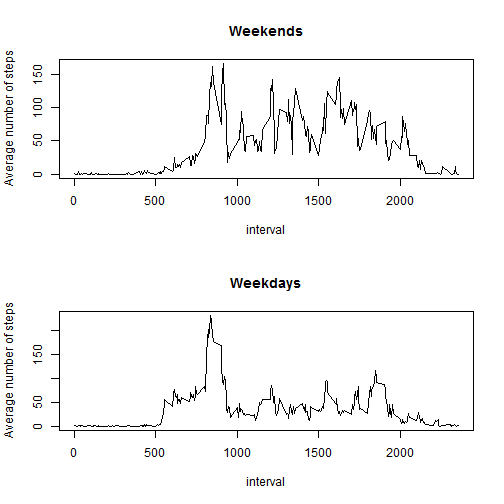
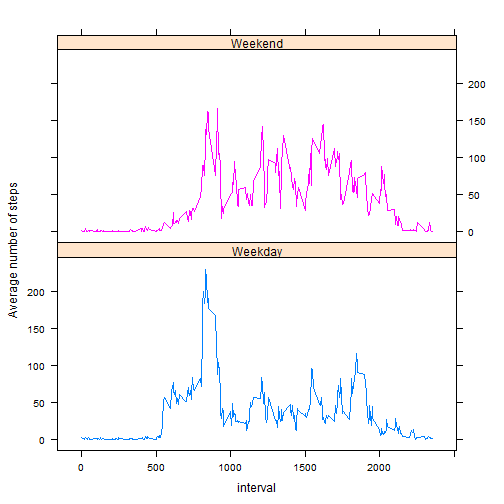
def version
using lattice for the last graph

diff --git a/PA1_template.html b/PA1_template.html
@@ -185,7 +185,11 @@ hljs.initHighlightingOnLoad();
 
 <p>In this part we will transform the date column which is processed as a factor into a date format.</p>
 
-<pre><code class="r">data &lt;- read.table(unz(&quot;activity.zip&quot;,&quot;activity.csv&quot;), sep=&quot;,&quot;, header=TRUE)
+<pre><code class="r">temp &lt;- tempfile() # Create a temp file to store the zip
+download.file(&quot;http://d396qusza40orc.cloudfront.net/repdata%2Fdata%2Factivity.zip&quot;,temp)
+data &lt;- read.table(unz(temp,&quot;activity.csv&quot;),sep=&quot;,&quot;,header=TRUE)
+unlink(temp)
+rm(temp)
 data$date &lt;- as.Date(data$date, format=&quot;%Y-%m-%d&quot;)
 </code></pre>
 
@@ -295,14 +299,16 @@ newData$Weekday &lt;- as.factor(newData$Weekday)
 
 <p>We subset two data frames from newData corresponding to weekends and weekdays aggregating the data by mean by interval and then we plot this two dataframes. </p>
 
-<pre><code class="r">weekends &lt;- aggregate(steps ~interval,subset(newData, newData$Weekday == &quot;Weekend&quot;), mean)
-weekdays &lt;- aggregate(steps ~interval,subset(newData, newData$Weekday == &quot;Weekday&quot;), mean)
-par(mfrow=c(2,1))
-plot (weekends, type=&quot;l&quot;, ylab=&quot;Average number of steps&quot;, main=&quot;Weekends&quot;)
-plot (weekdays, type=&quot;l&quot;, ylab=&quot;Average number of steps&quot;, main=&quot;Weekdays&quot;)
+<pre><code class="r">library(lattice, quietly=TRUE, warn.conflicts = FALSE)
 </code></pre>
 
[1 lines of base64/hex data omitted]
+<pre><code>## Warning: package &#39;lattice&#39; was built under R version 3.1.1
+</code></pre>
+
+<pre><code class="r">xyplot(steps ~ interval | Weekday, aggregate(steps ~ interval + Weekday, newData, FUN = mean), layout=c(1,2), type =&quot;l&quot;, group = Weekday, ylab=&quot;Average number of steps&quot;)
+</code></pre>
+
[1 lines of base64/hex data omitted]
 
 </body>
 

diff --git a/PA1_template.md b/PA1_template.md
@@ -7,7 +7,11 @@ In this part we will transform the date column which is processed as a factor in
 
 
 ```r
-data <- read.table(unz("activity.zip","activity.csv"), sep=",", header=TRUE)
+temp <- tempfile() # Create a temp file to store the zip
+download.file("http://d396qusza40orc.cloudfront.net/repdata%2Fdata%2Factivity.zip",temp)
+data <- read.table(unz(temp,"activity.csv"),sep=",",header=TRUE)
+unlink(temp)
+rm(temp)
 data$date <- as.Date(data$date, format="%Y-%m-%d")
 ```
 
@@ -149,11 +153,15 @@ We subset two data frames from newData corresponding to weekends and weekdays ag
 
 
 ```r
-weekends <- aggregate(steps ~interval,subset(newData, newData$Weekday == "Weekend"), mean)
-weekdays <- aggregate(steps ~interval,subset(newData, newData$Weekday == "Weekday"), mean)
-par(mfrow=c(2,1))
-plot (weekends, type="l", ylab="Average number of steps", main="Weekends")
-plot (weekdays, type="l", ylab="Average number of steps", main="Weekdays")
+library(lattice, quietly=TRUE, warn.conflicts = FALSE)
 ```
 
-![plot of chunk scatterplot4](figure/scatterplot4.png) 
+```
+## Warning: package 'lattice' was built under R version 3.1.1
+```
+
+```r
+xyplot(steps ~ interval | Weekday, aggregate(steps ~ interval + Weekday, newData, FUN = mean), layout=c(1,2), type ="l", group = Weekday, ylab="Average number of steps")
+```
+
+![plot of chunk scatterplot4 results:hide](figure/scatterplot4 results:hide.png) 
